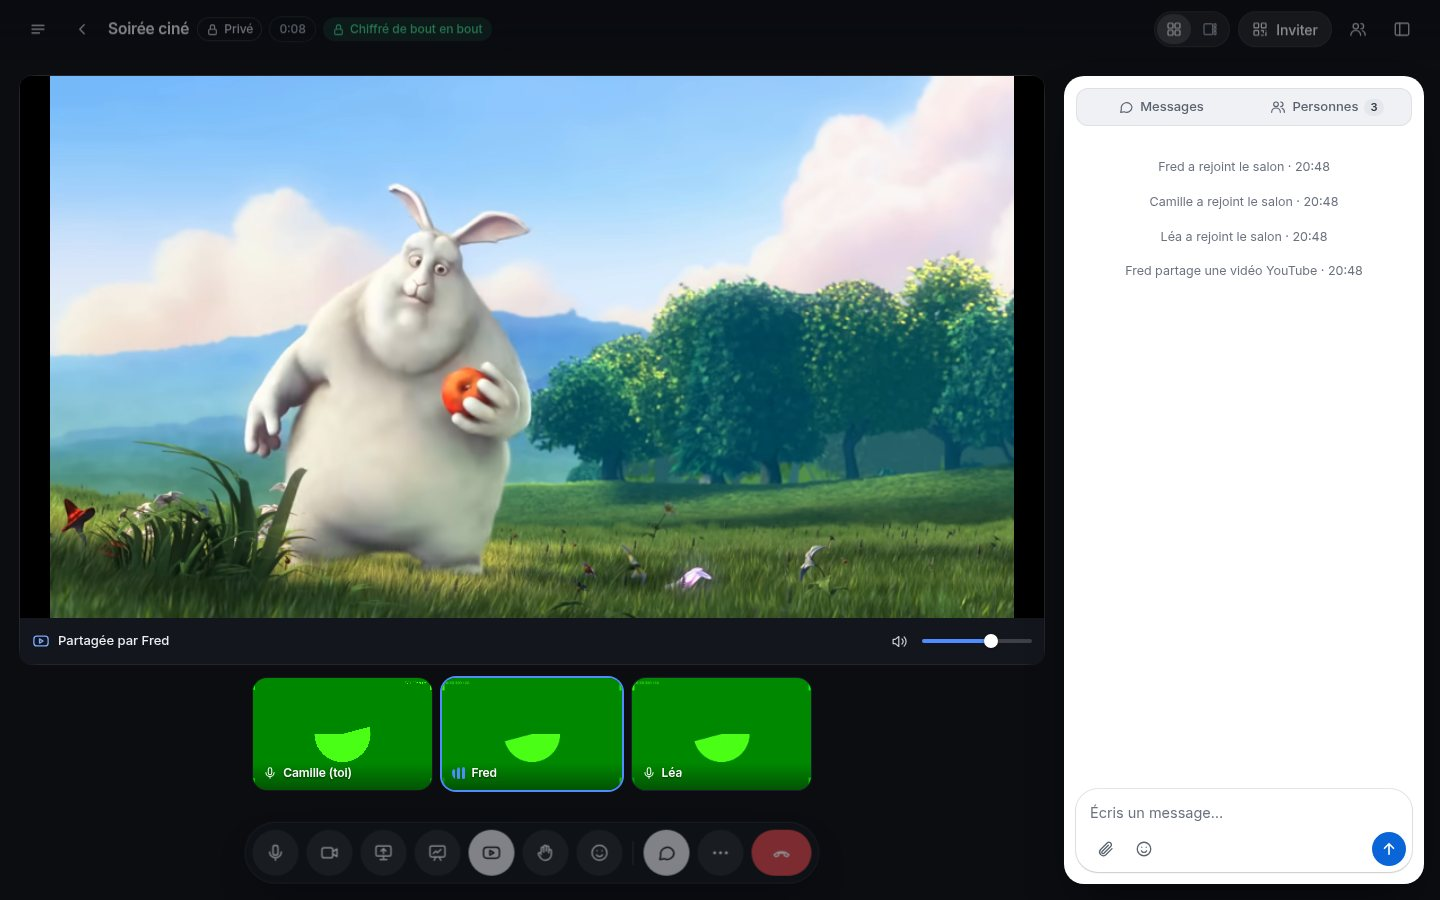
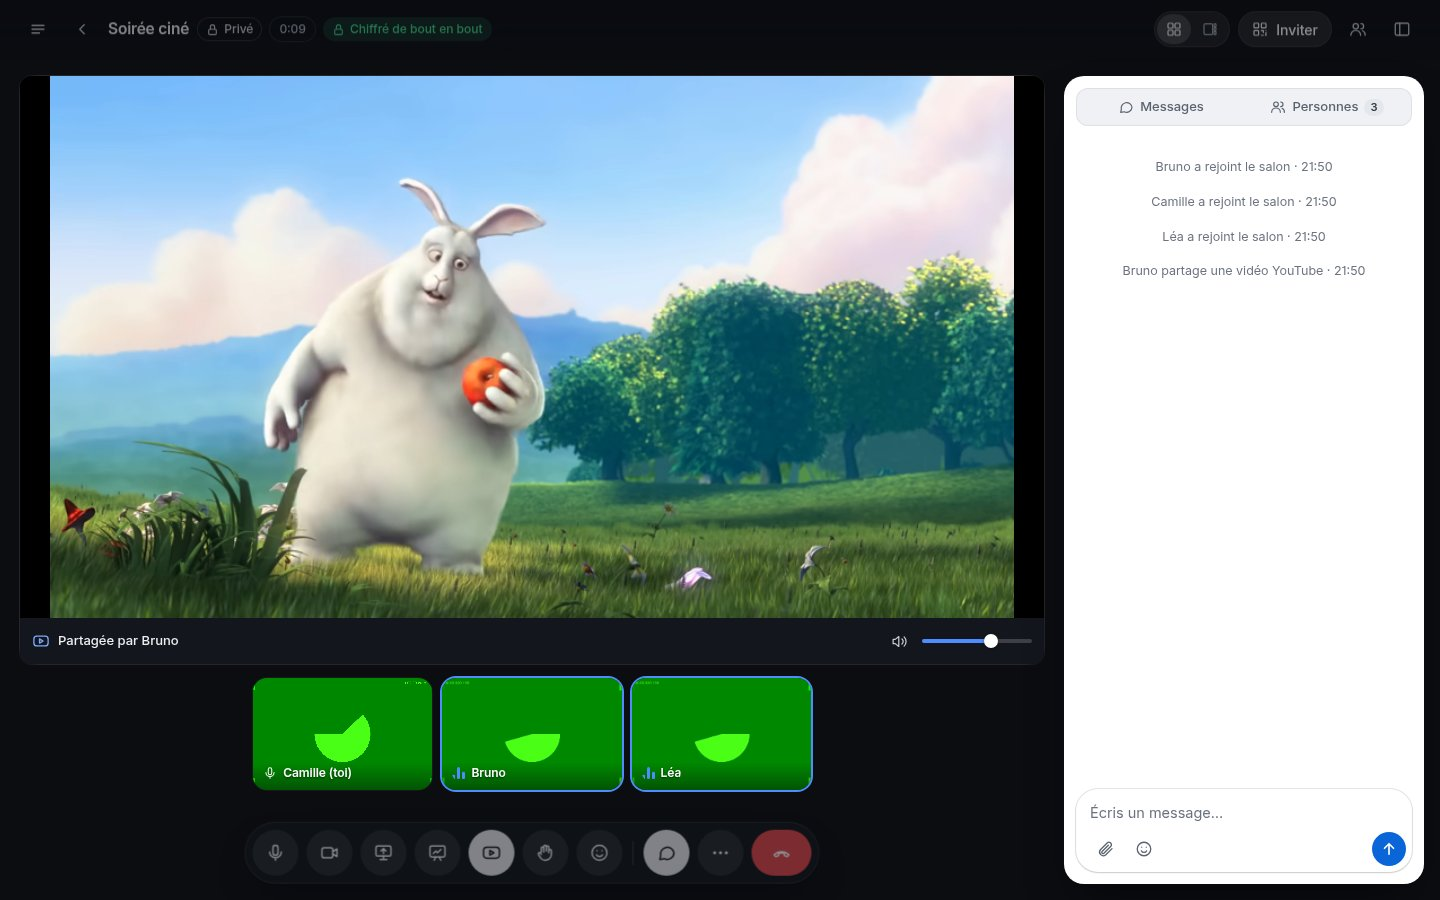
1.13.1 : participant fictif des captures YouTube renommé (Bruno), captures régénérées ; exemples d'installation et de mise à jour de la doc à la version courante (V=… / $V), test qui vérifie qu'ils suivent VERSION

diff --git a/docs/MANUEL.md b/docs/MANUEL.md
@@ -1,6 +1,6 @@
 # ChatSysVisio — Manuel d'installation et d'utilisation
 
-*Version 1.13.0 · licence AGPL-3.0-or-later · fork de Camus*
+*Version 1.13.1 · licence AGPL-3.0-or-later · fork de Camus*
 
 ![Accueil](img/accueil-bureau.png)
 
@@ -58,16 +58,18 @@ la police Inter, MediaPipe et son modèle, et **Node.js 24 officiel** (linux-x64
 Depuis votre poste :
 
 ```bash
-scp chatsysvisio-1.6.0.tar.gz chatsysvisio-1.6.0.tar.gz.sha256 root@10.0.0.20:/root/
+V=1.13.1      # version téléchargée (dernière release du dépôt)
+scp chatsysvisio-$V.tar.gz chatsysvisio-$V.tar.gz.sha256 root@10.0.0.20:/root/
 ```
 
 Sous Windows, WinSCP ou `pscp` (PuTTY) font la même chose. Dans le CT :
 
 ```bash
 cd /root
-sha256sum -c chatsysvisio-1.6.0.tar.gz.sha256      # doit afficher : OK
-tar -xzf chatsysvisio-1.6.0.tar.gz
-cd chatsysvisio-1.6.0
+V=1.13.1                                          # même version que ci-dessus
+sha256sum -c chatsysvisio-$V.tar.gz.sha256        # doit afficher : OK
+tar -xzf chatsysvisio-$V.tar.gz
+cd chatsysvisio-$V
 sha256sum -c --quiet SHA256SUMS                     # intégrité de chaque fichier (aucune sortie = OK)
 ```
 
@@ -622,11 +624,12 @@ Un code de secours remplace une fois le code TOTP à la connexion.
 tar -xzf chatsysvisio-<version>.tar.gz && cd chatsysvisio-<version> && bash update.sh
 ```
 
-Ou avec l'archive de **mise à jour** (même code, sans les tests), par exemple pour passer de 1.6.0 … 1.12.0 à 1.13.0 :
+Ou avec l'archive de **mise à jour** (même code, sans les tests), depuis la 1.6.0 ou plus récente (ici la 1.13.1, build 10 ; mettre le nom exact de l'archive reçue) :
 
 ```bash
-sha256sum -c chatsysvisio-mise-a-jour-1.13.0-b9.tar.gz.sha256
-tar -xzf chatsysvisio-mise-a-jour-1.13.0-b9.tar.gz && cd chatsysvisio-maj && bash update.sh
+MAJ=chatsysvisio-mise-a-jour-1.13.1-b10
+sha256sum -c $MAJ.tar.gz.sha256
+tar -xzf $MAJ.tar.gz && cd chatsysvisio-maj && bash update.sh
 ```
 
 Depuis la 1.9.0, l'archive contient déjà le modèle de l'isolateur, précompressé : le serveur n'a rien à télécharger de plus.

diff --git a/README-INSTALL.md b/README-INSTALL.md
@@ -12,7 +12,8 @@ connexion HTTPS/WebSocket que Nginx Proxy Manager (NPM) relaie vers le CT. Pas d
 ## 2. Installation
 
 **Paquet autonome (recommandé, hors ligne)** : `chatsysvisio-<version>.tar.gz` contient Node.js 24 officiel (x64 + arm64,
-SHA256 vérifié), les dépendances, MediaPipe et la police : `tar -xzf chatsysvisio-1.12.0.tar.gz && cd chatsysvisio-1.12.0 && bash install.sh`.
+SHA256 vérifié), les dépendances, MediaPipe et la police : `V=1.13.1; tar -xzf chatsysvisio-$V.tar.gz && cd chatsysvisio-$V && bash install.sh`
+(remplacer `1.13.1` par la version téléchargée).
 Aucun paquet n'est téléchargé (`USE_SYSTEM_NODE=1` pour utiliser `nodejs` de Debian à la place). Pas à pas : `docs/MANUEL.md`.
 
 Archives classiques (Node.js des dépôts Debian) :
@@ -140,7 +141,9 @@ Il n'y a rien à migrer : Camus ne conserve ni comptes ni historique.
 ## 4. Mise à jour
 
 ```bash
-tar -xzf chatsysvisio-mise-a-jour-1.12.0-b8.tar.gz   # nom exact de l'archive (ou chatsysvisio-mise-a-jour.tar.gz)
+MAJ=chatsysvisio-mise-a-jour-1.13.1-b10    # nom exact de l'archive reçue, sans .tar.gz
+sha256sum -c $MAJ.tar.gz.sha256
+tar -xzf $MAJ.tar.gz
 cd chatsysvisio-maj
 bash update.sh
 ```

diff --git a/docs/MIGRATION.md b/docs/MIGRATION.md
@@ -48,7 +48,8 @@ restent lisibles : **rien ne change pour les liens**. Restent à faire par chacu
 OLD=ancien-nom                       # nom court de l'ancienne installation
 systemctl disable --now $OLD $OLD-backup.timer $OLD-backup.path $OLD-status.timer $OLD-status.path
 tar -czf /root/avant-migration.tar.gz /etc/$OLD /var/lib/$OLD          # sauvegarde de sécurité
-tar -xzf chatsysvisio-1.5.1.tar.gz && cd chatsysvisio-1.5.1
+V=1.13.1                             # version téléchargée (1.5.1 ou plus récente)
+tar -xzf chatsysvisio-$V.tar.gz && cd chatsysvisio-$V
 NONINTERACTIVE=1 PUBLIC_URL=https://chat.example.com NPM_IP=10.0.0.10 bash install.sh
 systemctl stop chatsysvisio
 cp -a /var/lib/$OLD/. /var/lib/chatsysvisio/ && chown -R chatsysvisio:chatsysvisio /var/lib/chatsysvisio

diff --git a/README.fr.md b/README.fr.md
@@ -62,8 +62,9 @@ Dérivé de [Camus](https://github.com/camuschat/camus) (AGPL-3.0, voir `NOTICE.
 **Installation rapide (paquet autonome hors ligne, Debian 13)** :
 
 ```bash
-sha256sum -c chatsysvisio-1.12.0.tar.gz.sha256
-tar -xzf chatsysvisio-1.12.0.tar.gz && cd chatsysvisio-1.12.0 && bash install.sh
+V=1.13.1                     # version téléchargée (dernière release du dépôt)
+sha256sum -c chatsysvisio-$V.tar.gz.sha256
+tar -xzf chatsysvisio-$V.tar.gz && cd chatsysvisio-$V && bash install.sh
 ```
 
 Manuel complet : **`docs/MANUEL.md`** · migration depuis l'ancien nom : **`docs/MIGRATION.md`** · détails : **`README-INSTALL.md`**. Choix techniques et limites : **`docs/ARCHITECTURE.md`**.

diff --git a/README.md b/README.md
@@ -41,8 +41,9 @@ The release archive bundles the code, its dependencies, the Inter font, MediaPip
 **Node.js 24** build (linux-x64 and linux-arm64, SHA256-checked). No network access is needed during installation.
 
 ```bash
-sha256sum -c chatsysvisio-1.12.0.tar.gz.sha256
-tar -xzf chatsysvisio-1.12.0.tar.gz && cd chatsysvisio-1.12.0
+V=1.13.1                     # the version you downloaded (latest release)
+sha256sum -c chatsysvisio-$V.tar.gz.sha256
+tar -xzf chatsysvisio-$V.tar.gz && cd chatsysvisio-$V
 sudo bash install.sh        # asks for the public URL and the reverse proxy IP
 ```
 
